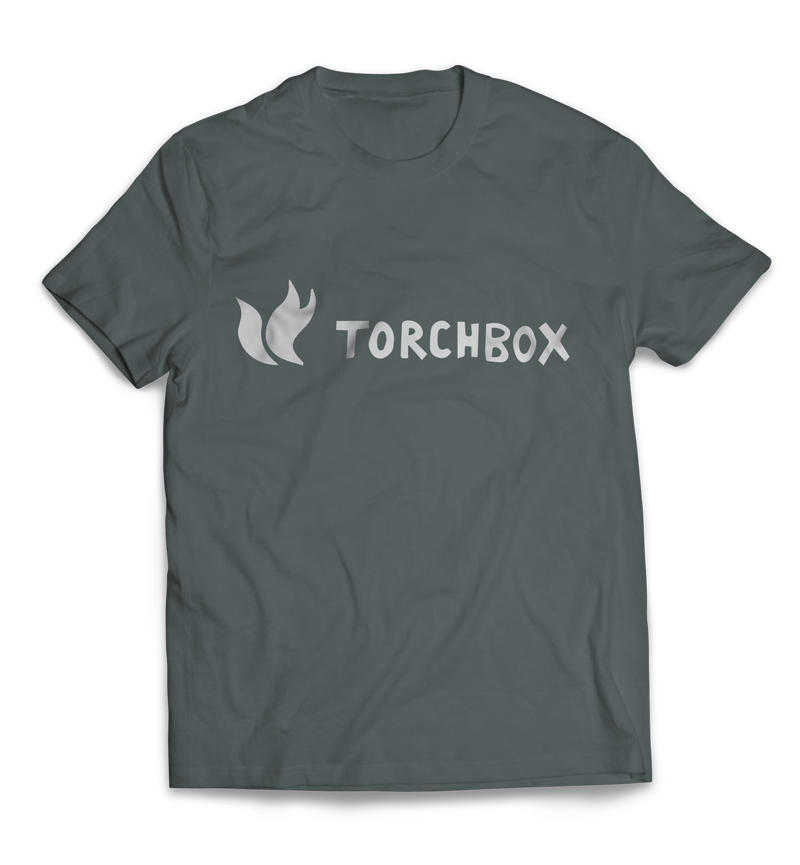
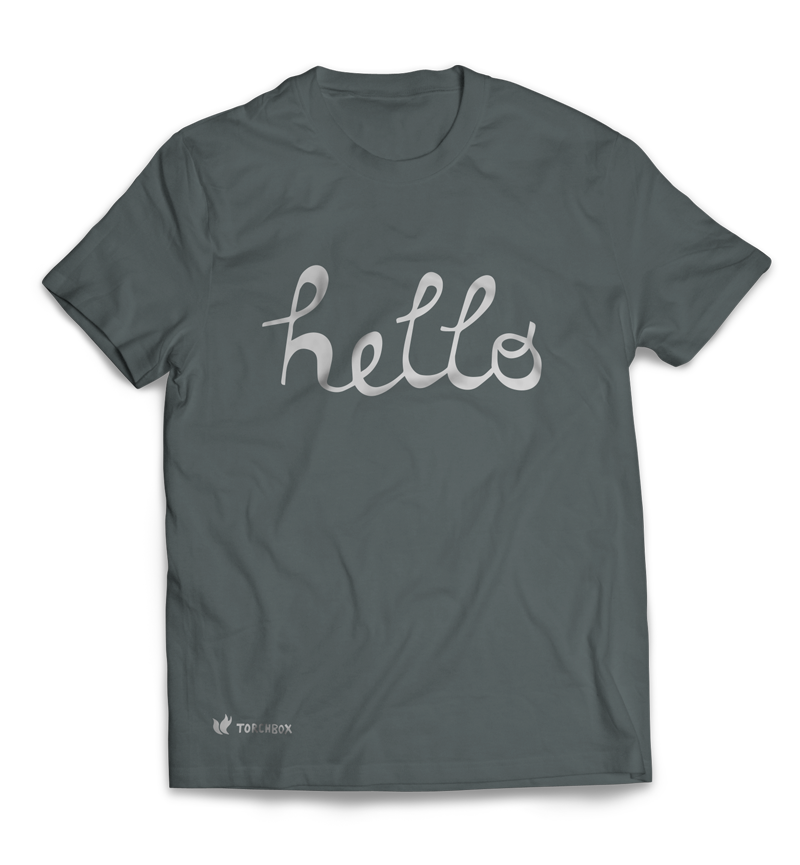
changes to hover on shirts

Changed region(s): [[0.2812, 0.2809, 0.7188, 0.4682], [0.25, 0.8116, 0.3125, 0.8428]]

diff --git a/torchbox/templates/torchbox/tshirt_page.html b/torchbox/templates/torchbox/tshirt_page.html
@@ -17,40 +17,55 @@
         </div>
 
         <div class="style">
-        	<h2> Classic fit</h2>
+        	<h2> Regular fit</h2>
         </div>
 
         <div class="container t-listing">
         	<ul class="t-listing">
         		<li>
-	        		<img src="/static/torchbox/images/shirts/classic/brown.png"  width="" height="" alt="">
-	        		<h3> Hello from torchbox </h3>
-	        		<h4> Brown </h4>
-        		</li>
-        		 <li>
 	        		<img src="/static/torchbox/images/shirts/classic/Dark-Grey.png"  width="" height="" alt="">
 	        		<h3> Hello from torchbox </h3>
 	        		<h4> Dark grey </h4>
         		</li>
-      			<li>
+        		<li>
+	        		<img src="/static/torchbox/images/shirts/classic/Kelly.png"  width="" height="" alt="">
+	        		<h3> Hello from torchbox </h3>
+	        		<h4> Kellly </h4>
+        		</li>
+        		<li>
 	        		<img src="/static/torchbox/images/shirts/classic/French-Navy.png"  width="" height="" alt="">
 	        		<h3> Torchbox flame </h3>
 	        		<h4> French navy </h4>
         		</li>
-        		 <li>
-	        		<img src="/static/torchbox/images/shirts/classic/Kelly.png"  width="" height="" alt="">
-	        		<h3> Torchbox flame </h3>
-	        		<h4> Kellly </h4>
+        		<li>
+	        		<img src="/static/torchbox/images/shirts/Slim/melange-Grey.png"  width="" height="" alt="">
+	        		<h3> Torchbox flame  </h3>
+	        		<h4> Melange Grey </h4>
         		</li>
-      			<li>
-	        		<img src="/static/torchbox/images/shirts/classic/Light-Blue.png"  width="" height="" alt="">
-	        		<h3> Hello from torchbox </h3>
-	        		<h4> Light blue </h4>
-        		</li>
-        		 <li>
+        		<li>
 	        		<img src="/static/torchbox/images/shirts/classic/Yellow.png"  width="" height="" alt="">
 	        		<h3> Hello from torchbox </h3>
-	        		<h4> Kellly </h4>
+	        		<h4> Yellow </h4>
+        		</li>
+        		<li>
+	        		<img src="/static/torchbox/images/shirts/classic/red.png"  width="" height="" alt="">
+	        		<h3> Torchbox flame </h3>
+	        		<h4> Red </h4>
+        		</li>
+        		<li>
+	        		<img src="/static/torchbox/images/shirts/classic/dark-red.png"  width="" height="" alt="">
+	        		<h3> Hello from torchbox </h3>
+	        		<h4> Dark red </h4>
+        		</li>
+        		<li>
+	        		<img src="/static/torchbox/images/shirts/classic/brown.png"  width="" height="" alt="">
+	        		<h3> Hello from torchbox </h3>
+	        		<h4> Brown </h4>
+        		</li>
+      			<li>
+	        		<img src="/static/torchbox/images/shirts/classic/faded-black.png"  width="" height="" alt="">
+	        		<h3> Torchbox flame </h3>
+	        		<h4> Faded black </h4>
         		</li>
         	</ul>
         </div>
@@ -62,29 +77,24 @@
         <div class="container t-listing">
         	<ul class="t-listing">
         		<li>
-	        		<img src="/static/torchbox/images/shirts/Slim/Aqua.png"  width="" height="" alt="">
-	        		<h3> Torchbox flame </h3>
-	        		<h4> Aqua </h4>
-        		</li>
-        		 <li>
-	        		<img src="/static/torchbox/images/shirts/Slim/Dark-Grey.png"  width="" height="" alt="">
-	        		<h3> Torchbox flame </h3>
-	        		<h4> Dark grey </h4>
-        		</li>
-      			<li>
-	        		<img src="/static/torchbox/images/shirts/Slim/Dark-Navy.png"  width="" height="" alt="">
-	        		<h3> Torchbox flame </h3>
-	        		<h4> Dark navy </h4>
-        		</li>
-      			<li>
 	        		<img src="/static/torchbox/images/shirts/Slim/melange-Grey.png"  width="" height="" alt="">
 	        		<h3> Torchbox flame  </h3>
 	        		<h4> Melange Grey </h4>
         		</li>
-        		 <li>
-	        		<img src="/static/torchbox/images/shirts/Slim/Purple.png"  width="" height="" alt="">
-	        		<h3> Torchbox flame  </h3>
-	        		<h4> Purple </h4>
+        		<li>
+	        		<img src="/static/torchbox/images/shirts/Slim/Dark-Grey.png"  width="" height="" alt="">
+	        		<h3> Torchbox flame </h3>
+	        		<h4> Dark grey </h4>
+        		</li>
+        		<li>
+	        		<img src="/static/torchbox/images/shirts/Slim/Dark-Navy.png"  width="" height="" alt="">
+	        		<h3> Torchbox flame </h3>
+	        		<h4> Dark navy </h4>
+        		</li>
+        		<li>
+	        		<img src="/static/torchbox/images/shirts/Slim/Aqua.png"  width="" height="" alt="">
+	        		<h3> Torchbox flame </h3>
+	        		<h4> Aqua </h4>
         		</li>
         	</ul>
         </div>
@@ -92,7 +102,7 @@
         <div class="container">
 	        <script type="text/javascript">
 			var __machform_url = 'http://forms.torchbox.com/embed.php?id=17236';
-			var __machform_height = 699;
+			var __machform_height = 600;
 			</script>
 			<div id="mf_placeholder"></div>
 			<script type="text/javascript" src="http://forms.torchbox.com/js/jquery.min.js"></script>

diff --git a/torchbox/static/torchbox/css/medium.css b/torchbox/static/torchbox/css/medium.css
@@ -1485,7 +1485,7 @@
         width: 32%;
     }
 
-    .t-listing li img {
+    .t-listing img {
         -webkit-transition: all 0.5s ease; 
         -moz-transition: all 0.5s ease; 
         -ms-transition: all 0.5s ease; 
@@ -1493,12 +1493,40 @@
         transition: all 0.5s ease;
     }
 
-    .t-listing li img:hover {
+    .t-listing li:hover img {
         -webkit-transform:scale(1.5);
         -moz-transform:scale(1.5); 
         -ms-transform:scale(1.5); 
         -o-transform:scale(1.5); 
          transform:scale(1.5);
+    }
+
+    .t-listing li h3 {
+        -webkit-transition: all 0.5s ease; 
+        -moz-transition: all 0.5s ease; 
+        -ms-transition: all 0.5s ease; 
+        -o-transition: all 0.5s ease;
+        transition: all 0.5s ease;
+    }
+
+    .t-listing li h4 {
+        -webkit-transition: all 0.5s ease; 
+        -moz-transition: all 0.5s ease; 
+        -ms-transition: all 0.5s ease; 
+        -o-transition: all 0.5s ease;
+        transition: all 0.5s ease;
+    }
+
+    .t-listing li:hover h3 {
+        position: relative;
+        z-index: 5;
+        color: #fff;
+    }
+
+    .t-listing li:hover h4 {
+        position: relative;
+        z-index: 5;
+        color: #fff;
     }
 
     .t-listing li:nth-child(3n) {

diff --git a/torchbox/static/torchbox/css/main.css b/torchbox/static/torchbox/css/main.css
@@ -2301,6 +2301,7 @@ footer .tel {
     font-size: 1em;
     text-align: center;
     font-style: italic;
+    margin-top: -0.2em;
 }
 
 
